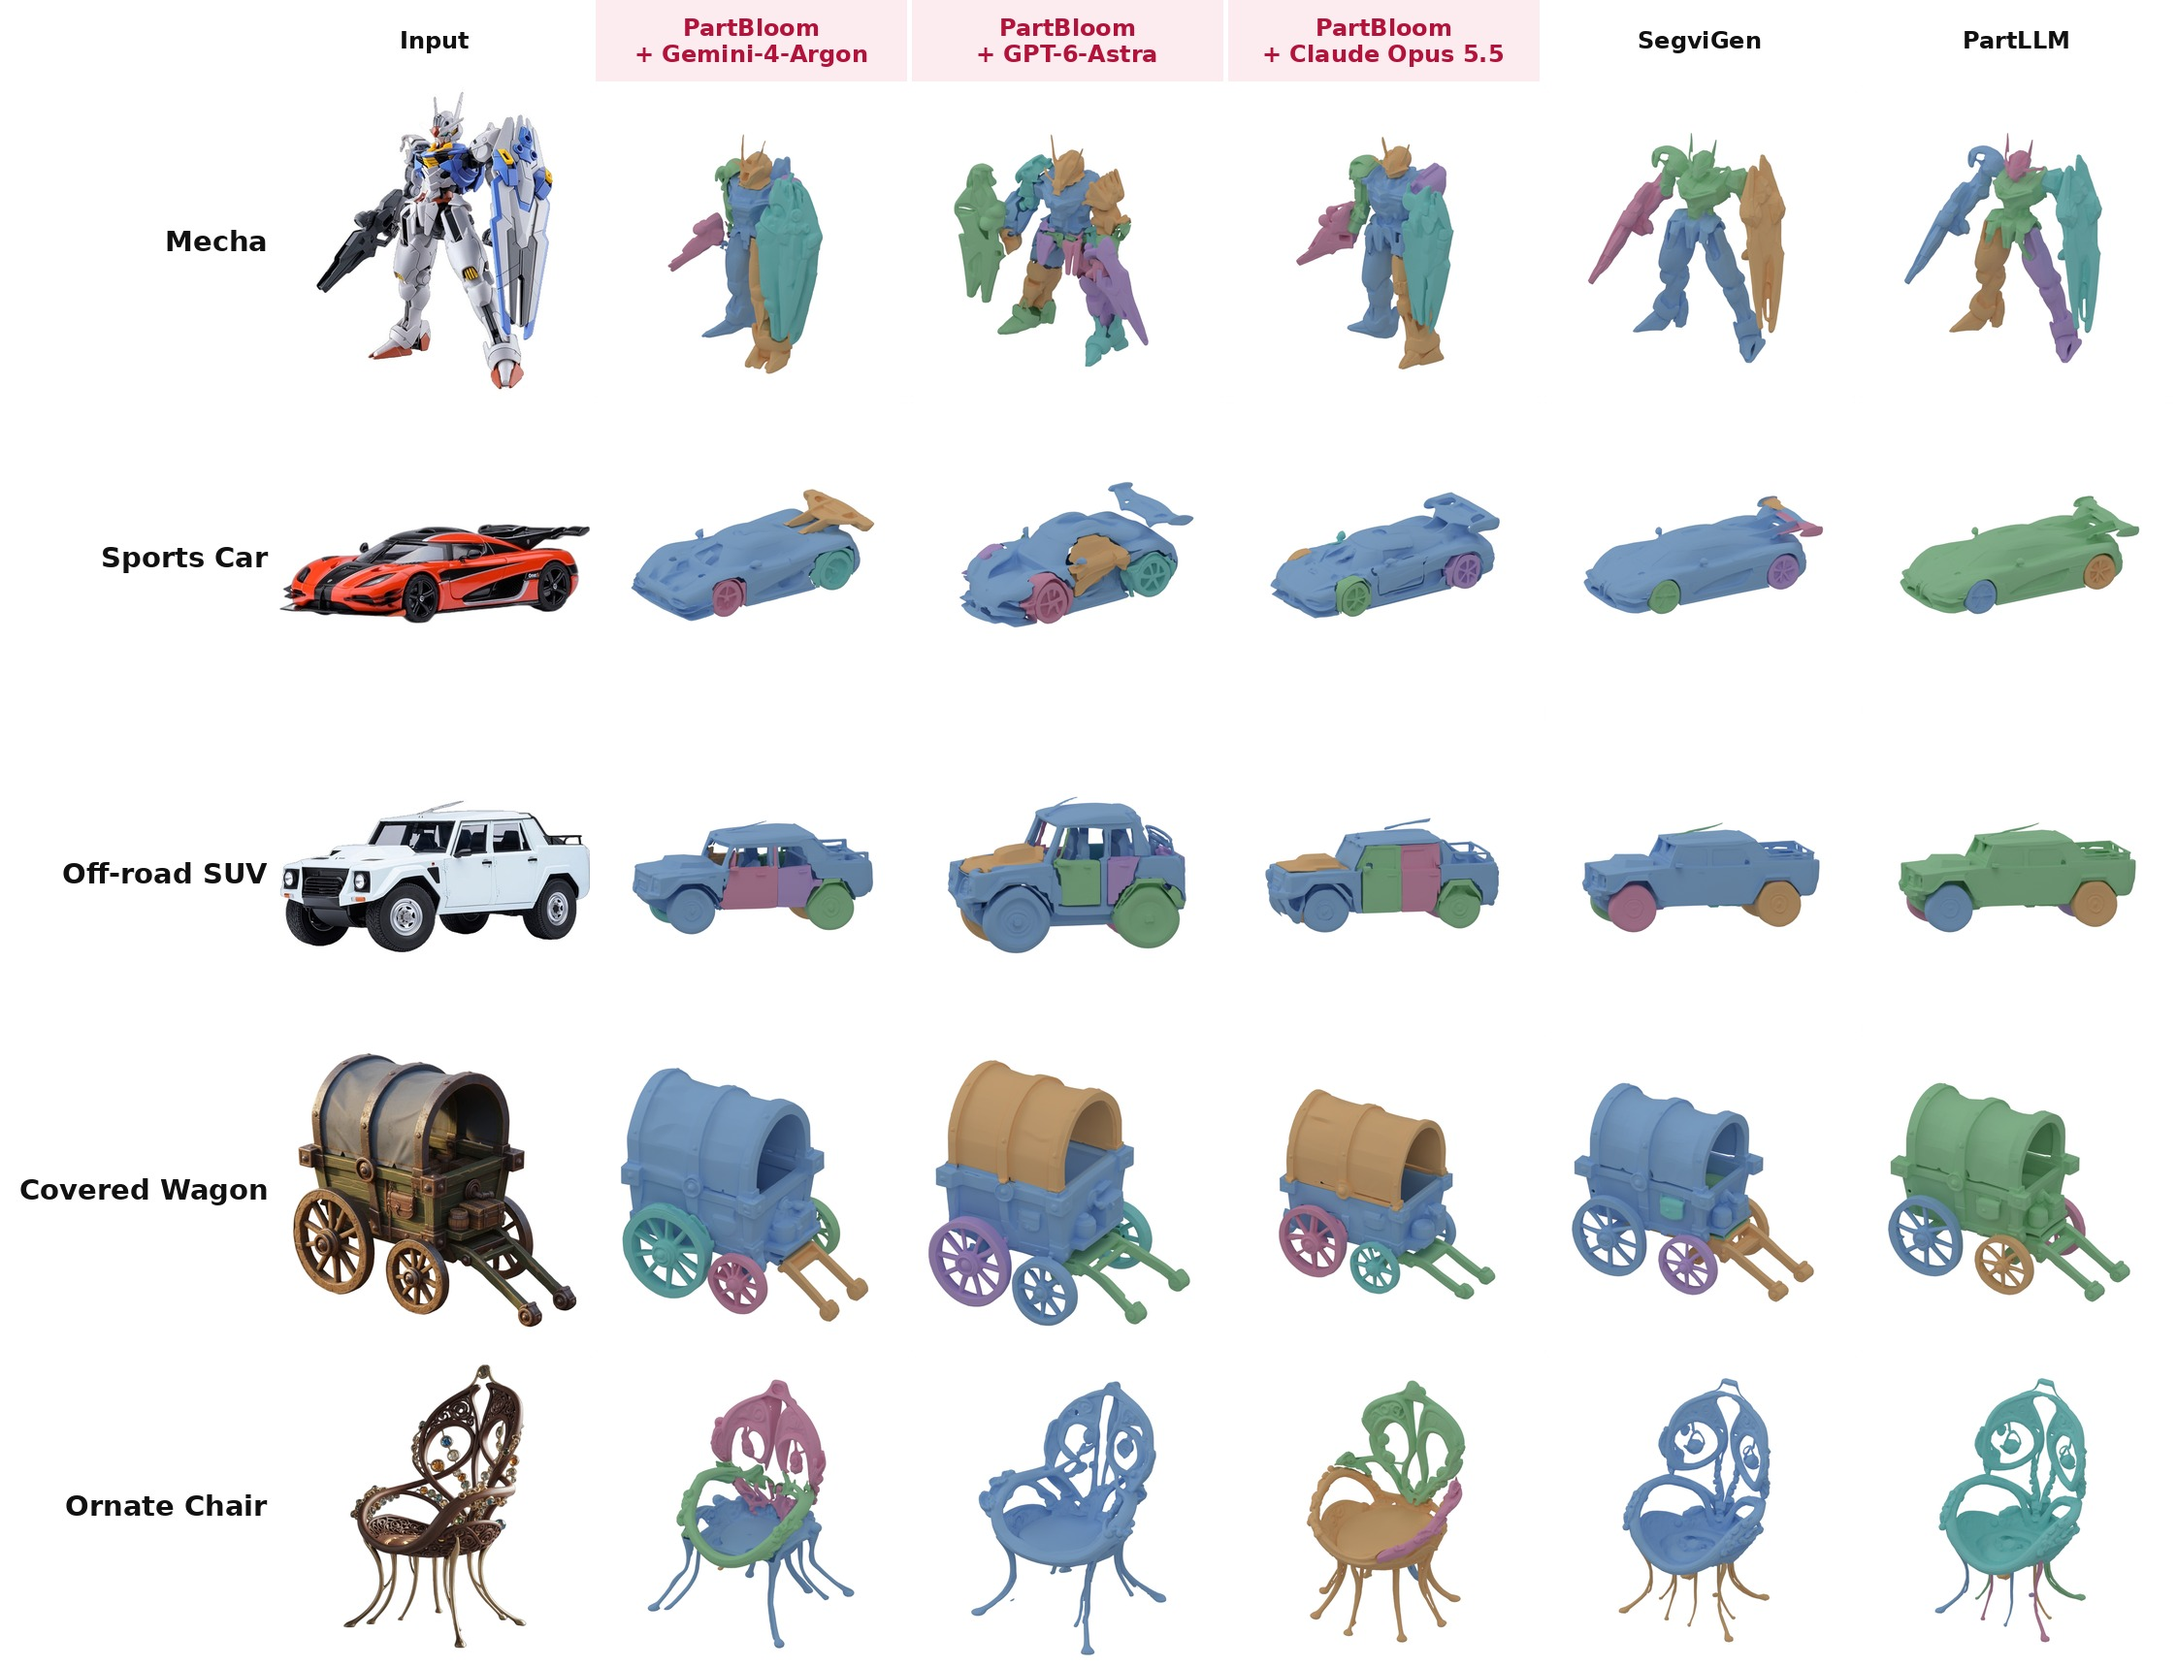
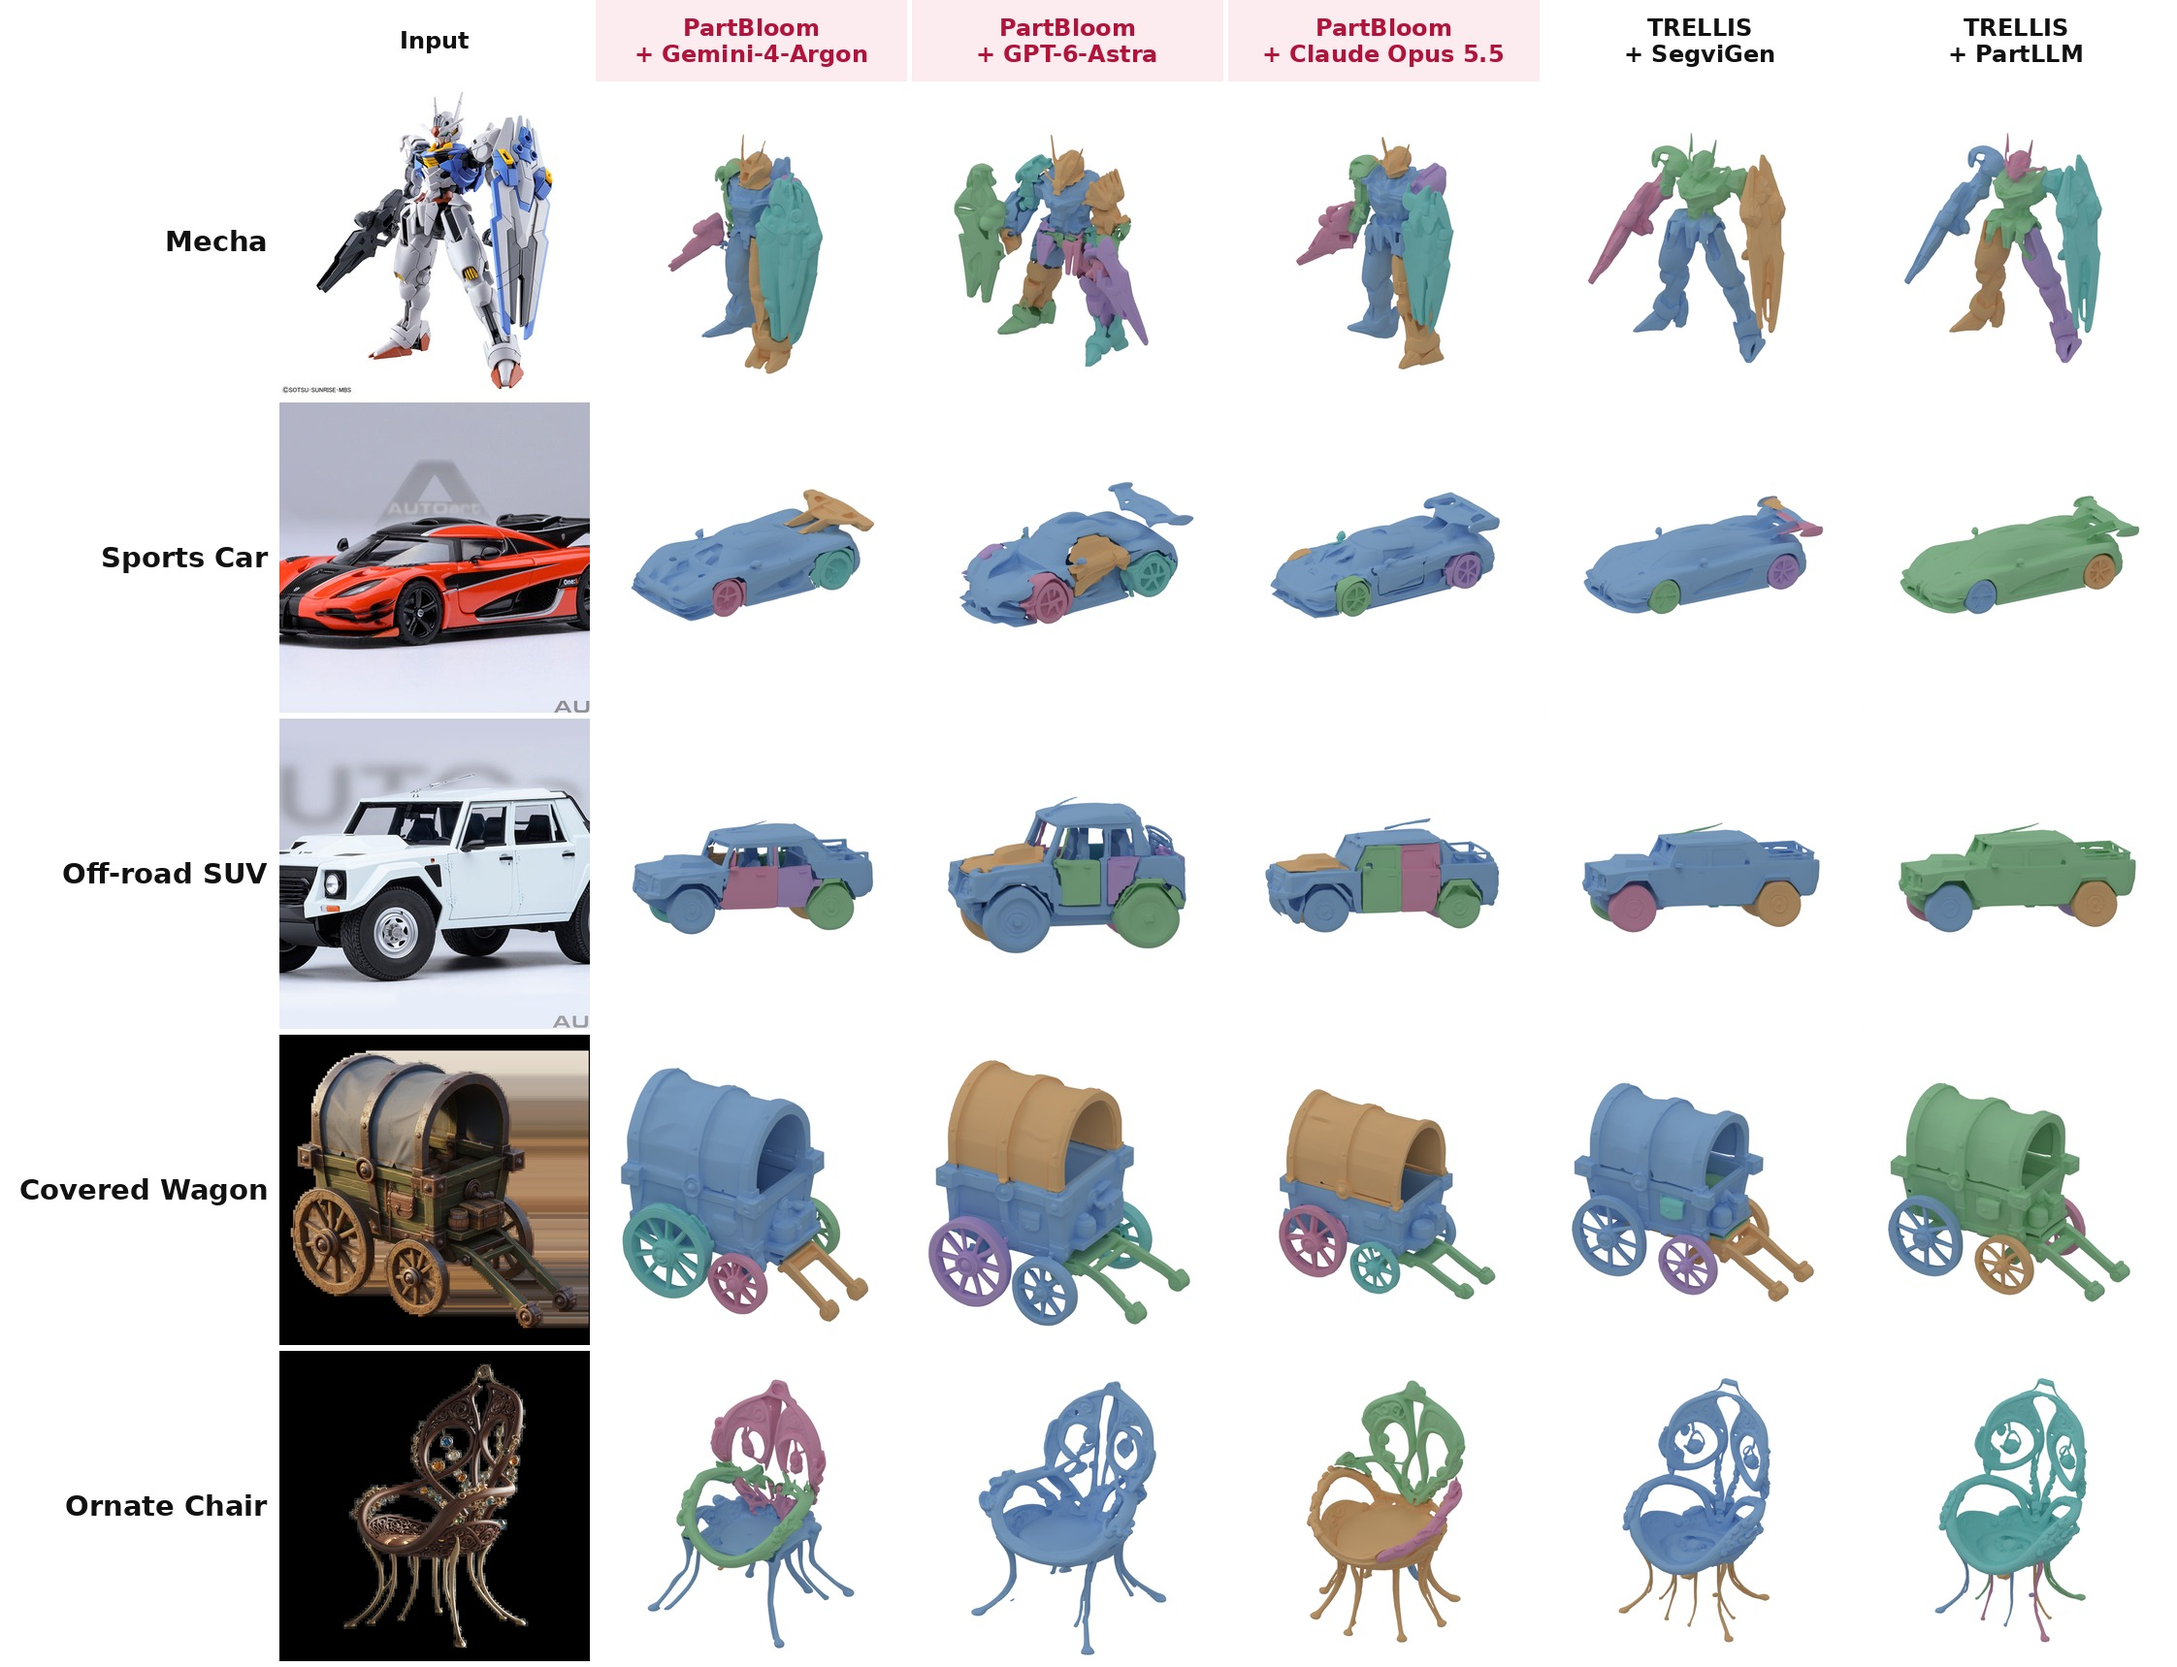
Clarify TRELLIS generation in part segmentation baselines

Changed region(s): [[0.1248, 0.2158, 0.2807, 1.0], [0.7487, 0.0, 0.8111, 0.0617], [0.9046, 0.0, 0.967, 0.0617]]

diff --git a/README.md b/README.md
@@ -55,7 +55,7 @@ The benchmark has 14 single-image inputs: vehicles, mecha, creatures, statues, f
 
 ### Part decomposition
 
-PartBloom generates part-level assets natively, so we also compare its parts with dedicated part segmentation methods, SegviGen and PartLLM, which split a 3D asset into parts. Colors mark parts. PartLLM uses its general granularity.
+PartBloom generates part-level assets natively. For the two segmentation baselines, TRELLIS first generates a 3D asset from the input image; SegviGen or PartLLM then splits that asset into parts. We label these pipelines **TRELLIS + SegviGen** and **TRELLIS + PartLLM**. Colors mark parts. PartLLM uses its general granularity.
 
 ![part comparison 1](assets/parts_01.jpg)
 ![part comparison 2](assets/parts_02.jpg)
